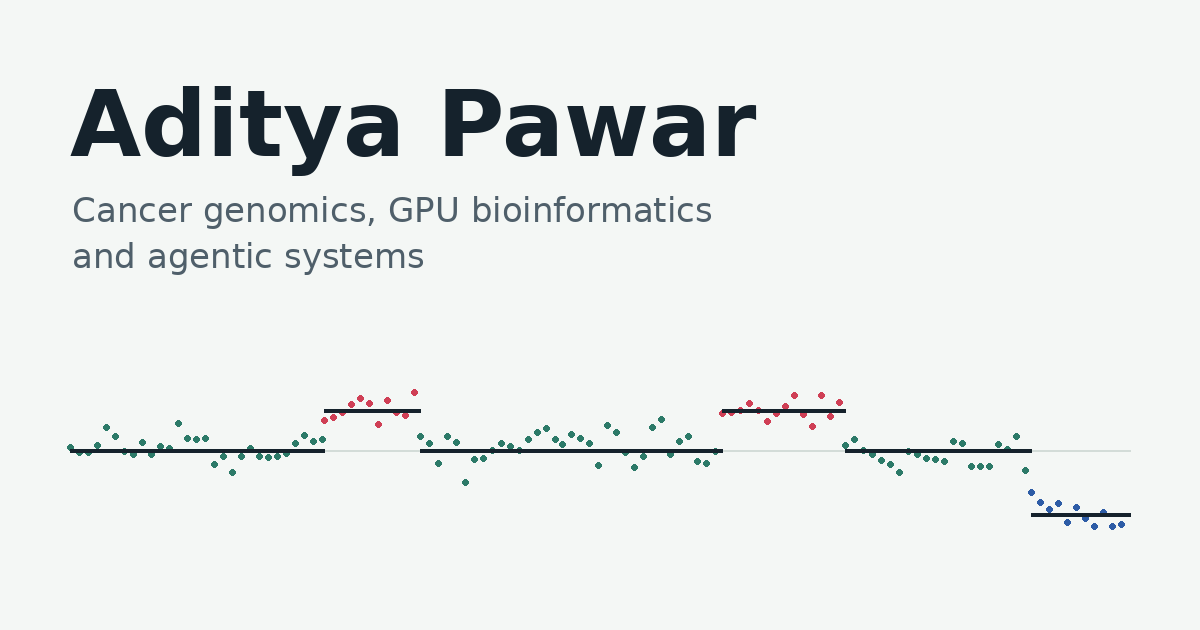
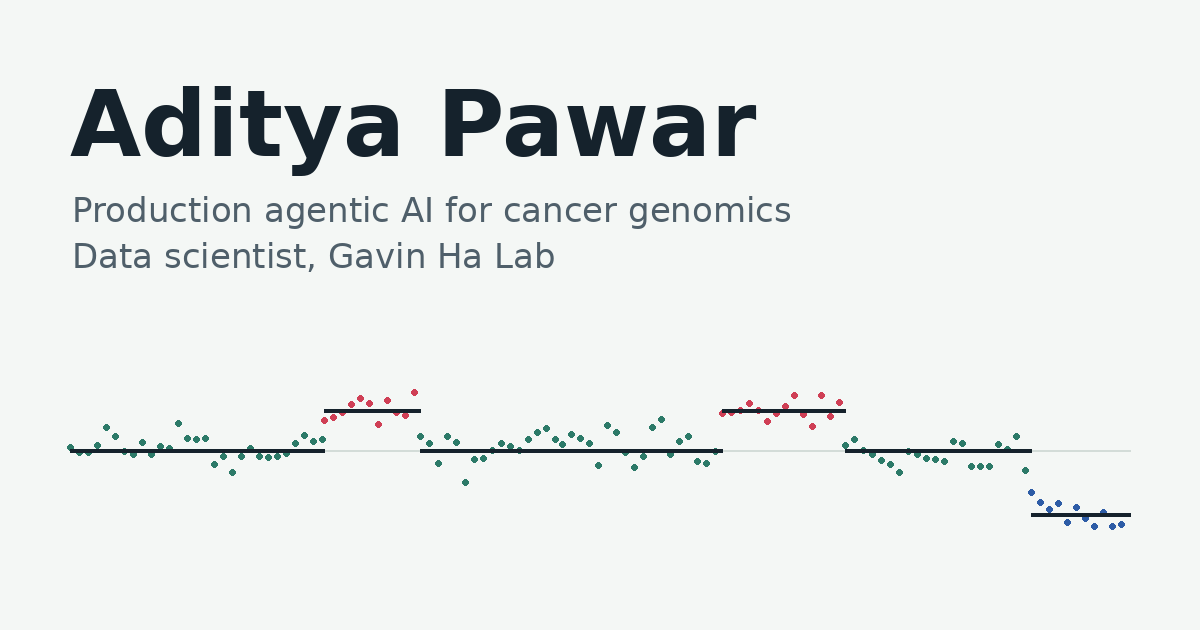
Lead with production agentic AI, add skills, experience and Scholar link
Refocus the tagline and bio, link the Gavin Ha Lab site, merge the two pipeline
entries into one, and add skills and a fuller experience list.

Claude-Session: https://claude.ai/code/session_01DthkQ5JwuHJMNNpGkuqXGQ

Changed region(s): [[0.0617, 0.3016, 0.6783, 0.3619], [0.0617, 0.3921, 0.4625, 0.4524]]

diff --git a/assets/css/style.css b/assets/css/style.css
@@ -62,7 +62,7 @@ a:hover { color: var(--link-hover); }
   margin: 0 0 1rem;
 }
 .role { font-family: var(--head-font); font-size: 1.15rem; margin: 0 0 0.75rem; color: var(--muted); }
-.tagline { font-size: clamp(1.2rem, 2.4vw, 1.6rem); line-height: 1.4; max-width: 36ch; margin: 0 0 2rem; }
+.tagline { font-size: clamp(1.2rem, 2.4vw, 1.6rem); line-height: 1.4; max-width: 46ch; margin: 0 0 2rem; }
 
 .genome { margin-top: 0.5rem; }
 #genome { display: block; width: 100%; height: 240px; }
@@ -192,3 +192,11 @@ pre { overflow-x: auto; padding: 1rem; background: var(--rule); border-radius: 6
     content: ""; position: absolute; left: 50%; bottom: -0.75rem; width: 2px; height: 0.75rem; margin-left: -1px; background: var(--muted);
   }
 }
+
+/* Skills */
+.skills { margin: 0; }
+.skill { display: grid; gap: 0.1rem 2rem; padding: 0.8rem 0; border-top: 1px solid var(--rule); }
+.skill:first-child { border-top: 0; padding-top: 0; }
+.skill dt { font-family: var(--head-font); font-weight: 700; font-size: 1rem; }
+.skill dd { margin: 0; color: var(--muted); font-size: 0.97rem; }
+@media (min-width: 46rem) { .skill { grid-template-columns: 14rem 1fr; } }

diff --git a/index.html b/index.html
@@ -34,6 +34,18 @@ layout: default
   </div>
 </section>
 
+<section id="skills" class="block wrap">
+  <h2>Skills</h2>
+  <dl class="skills">
+    {% for g in site.data.skills %}
+    <div class="skill">
+      <dt>{{ g.group }}</dt>
+      <dd>{{ g.items }}</dd>
+    </div>
+    {% endfor %}
+  </dl>
+</section>
+
 <section id="work" class="block wrap">
   <h2>What I work on</h2>
   <div class="areas">
